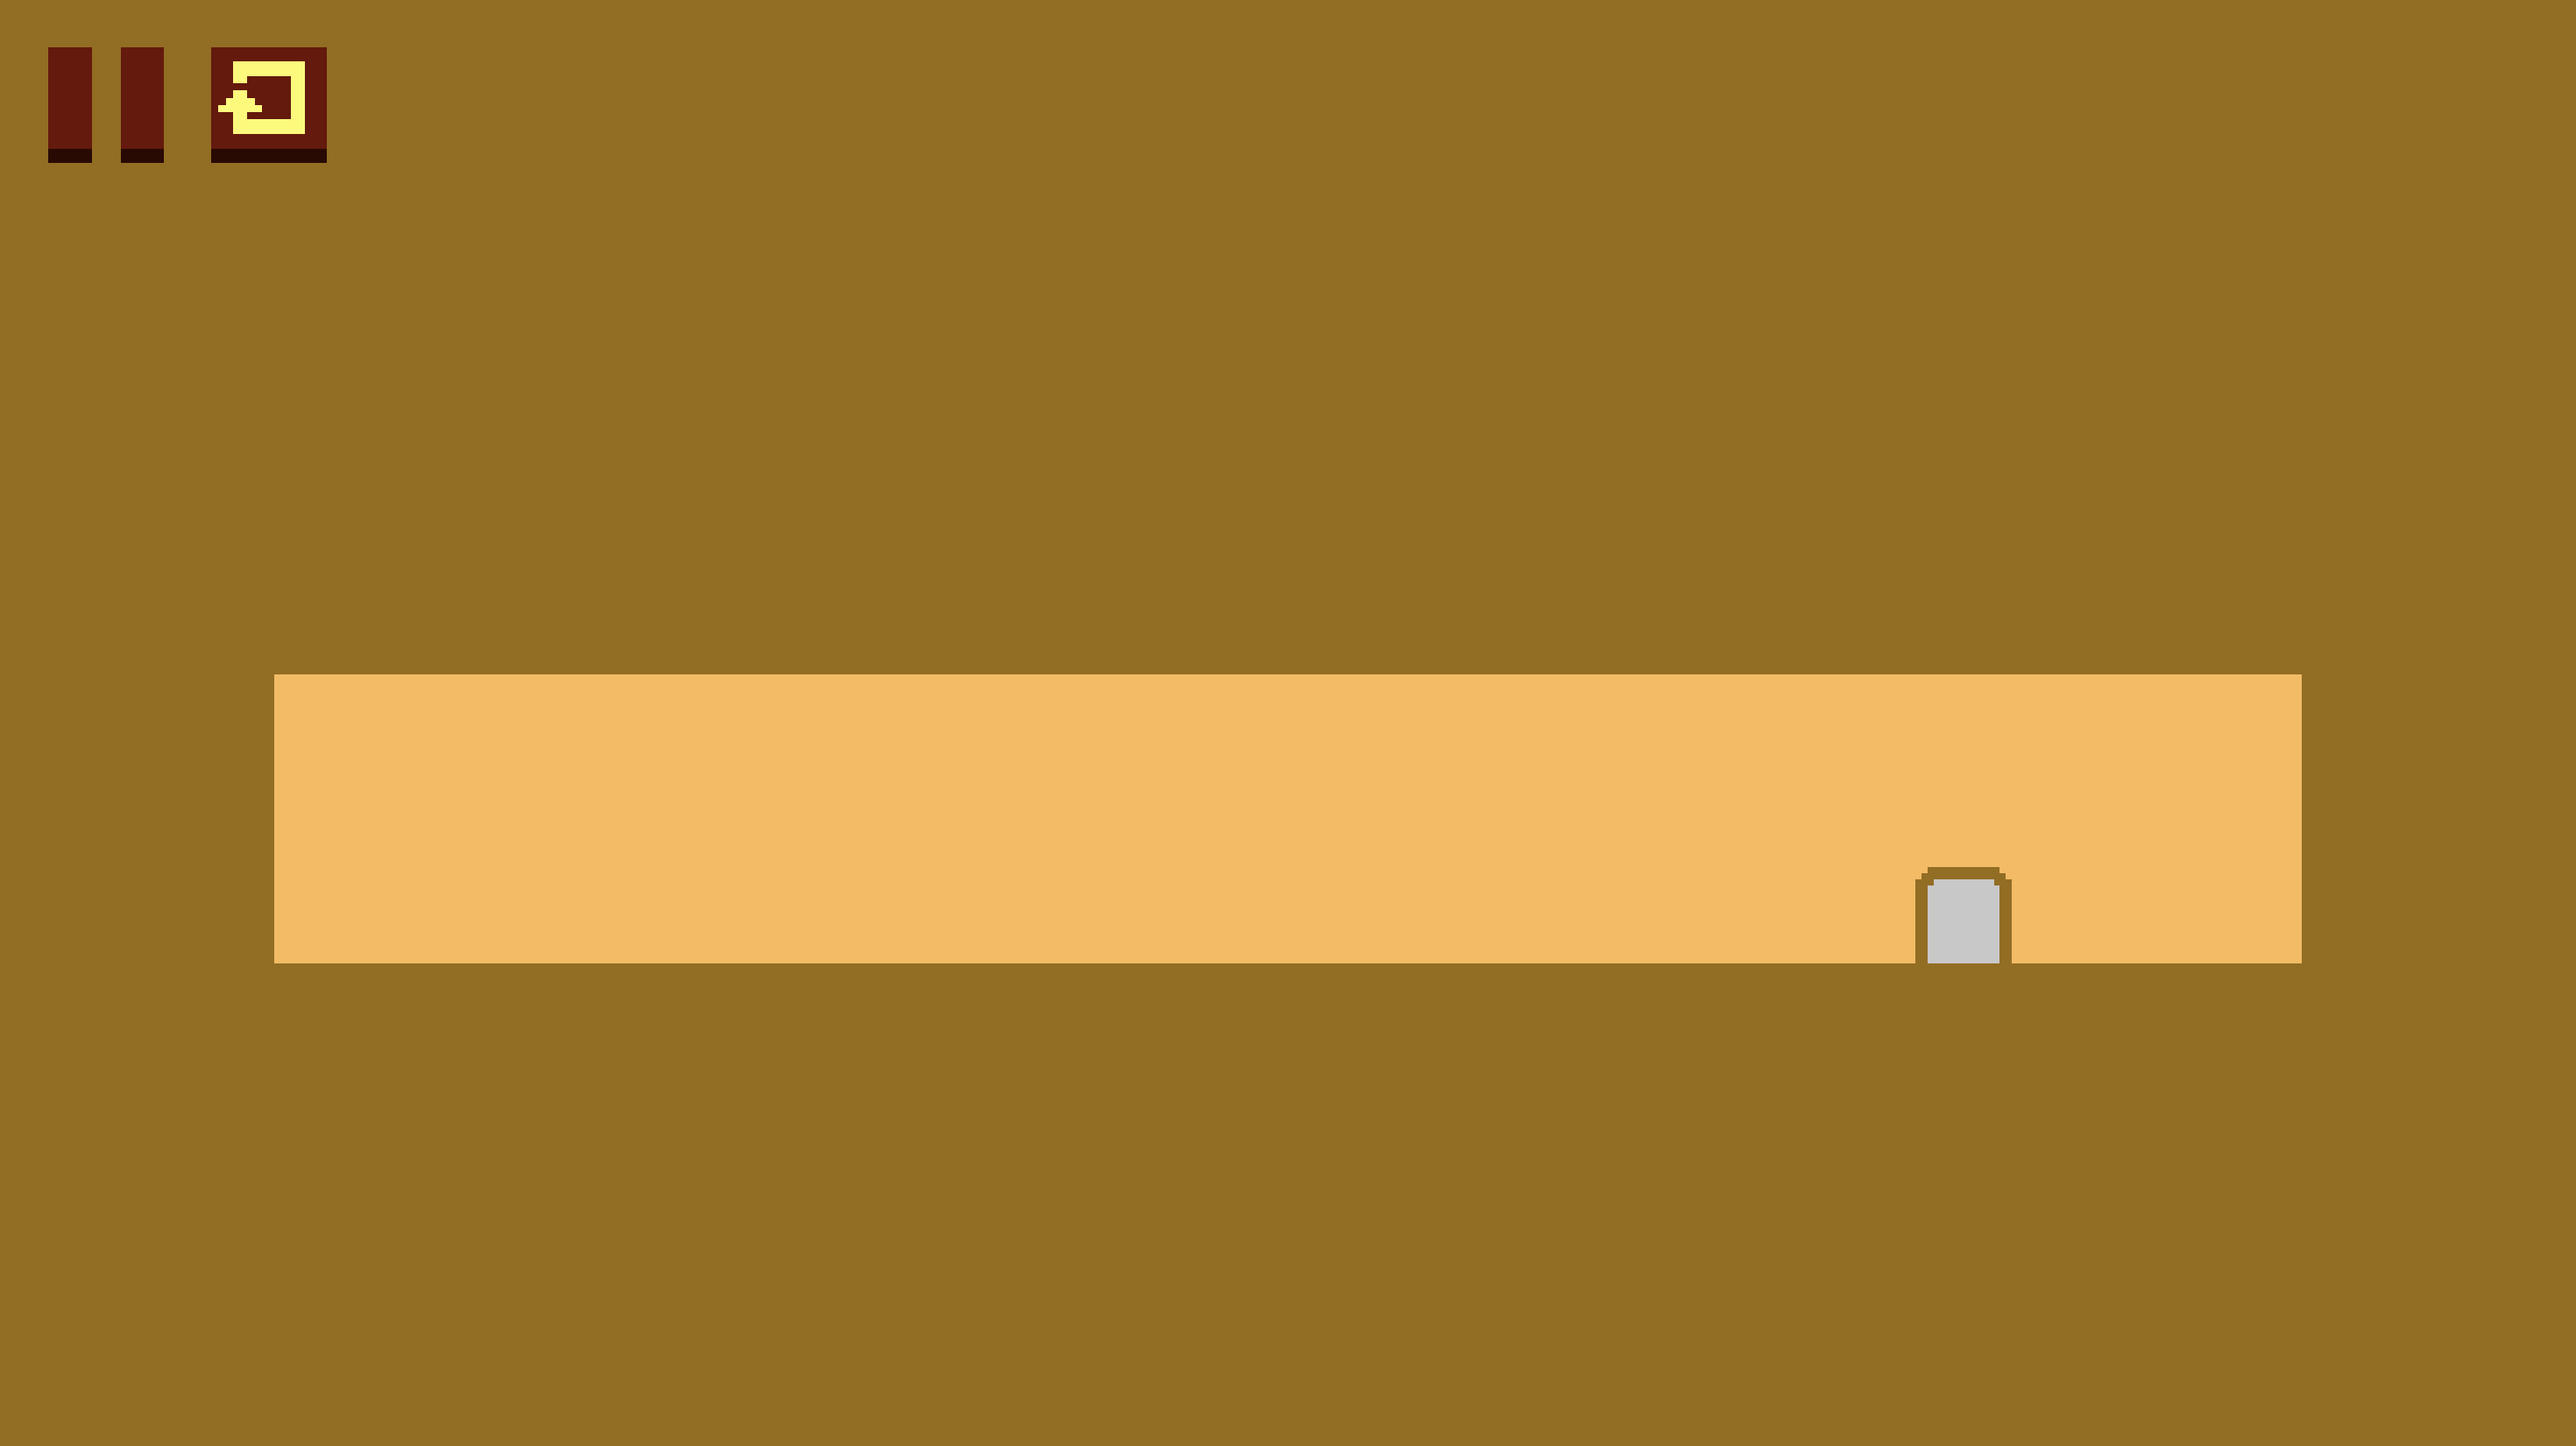
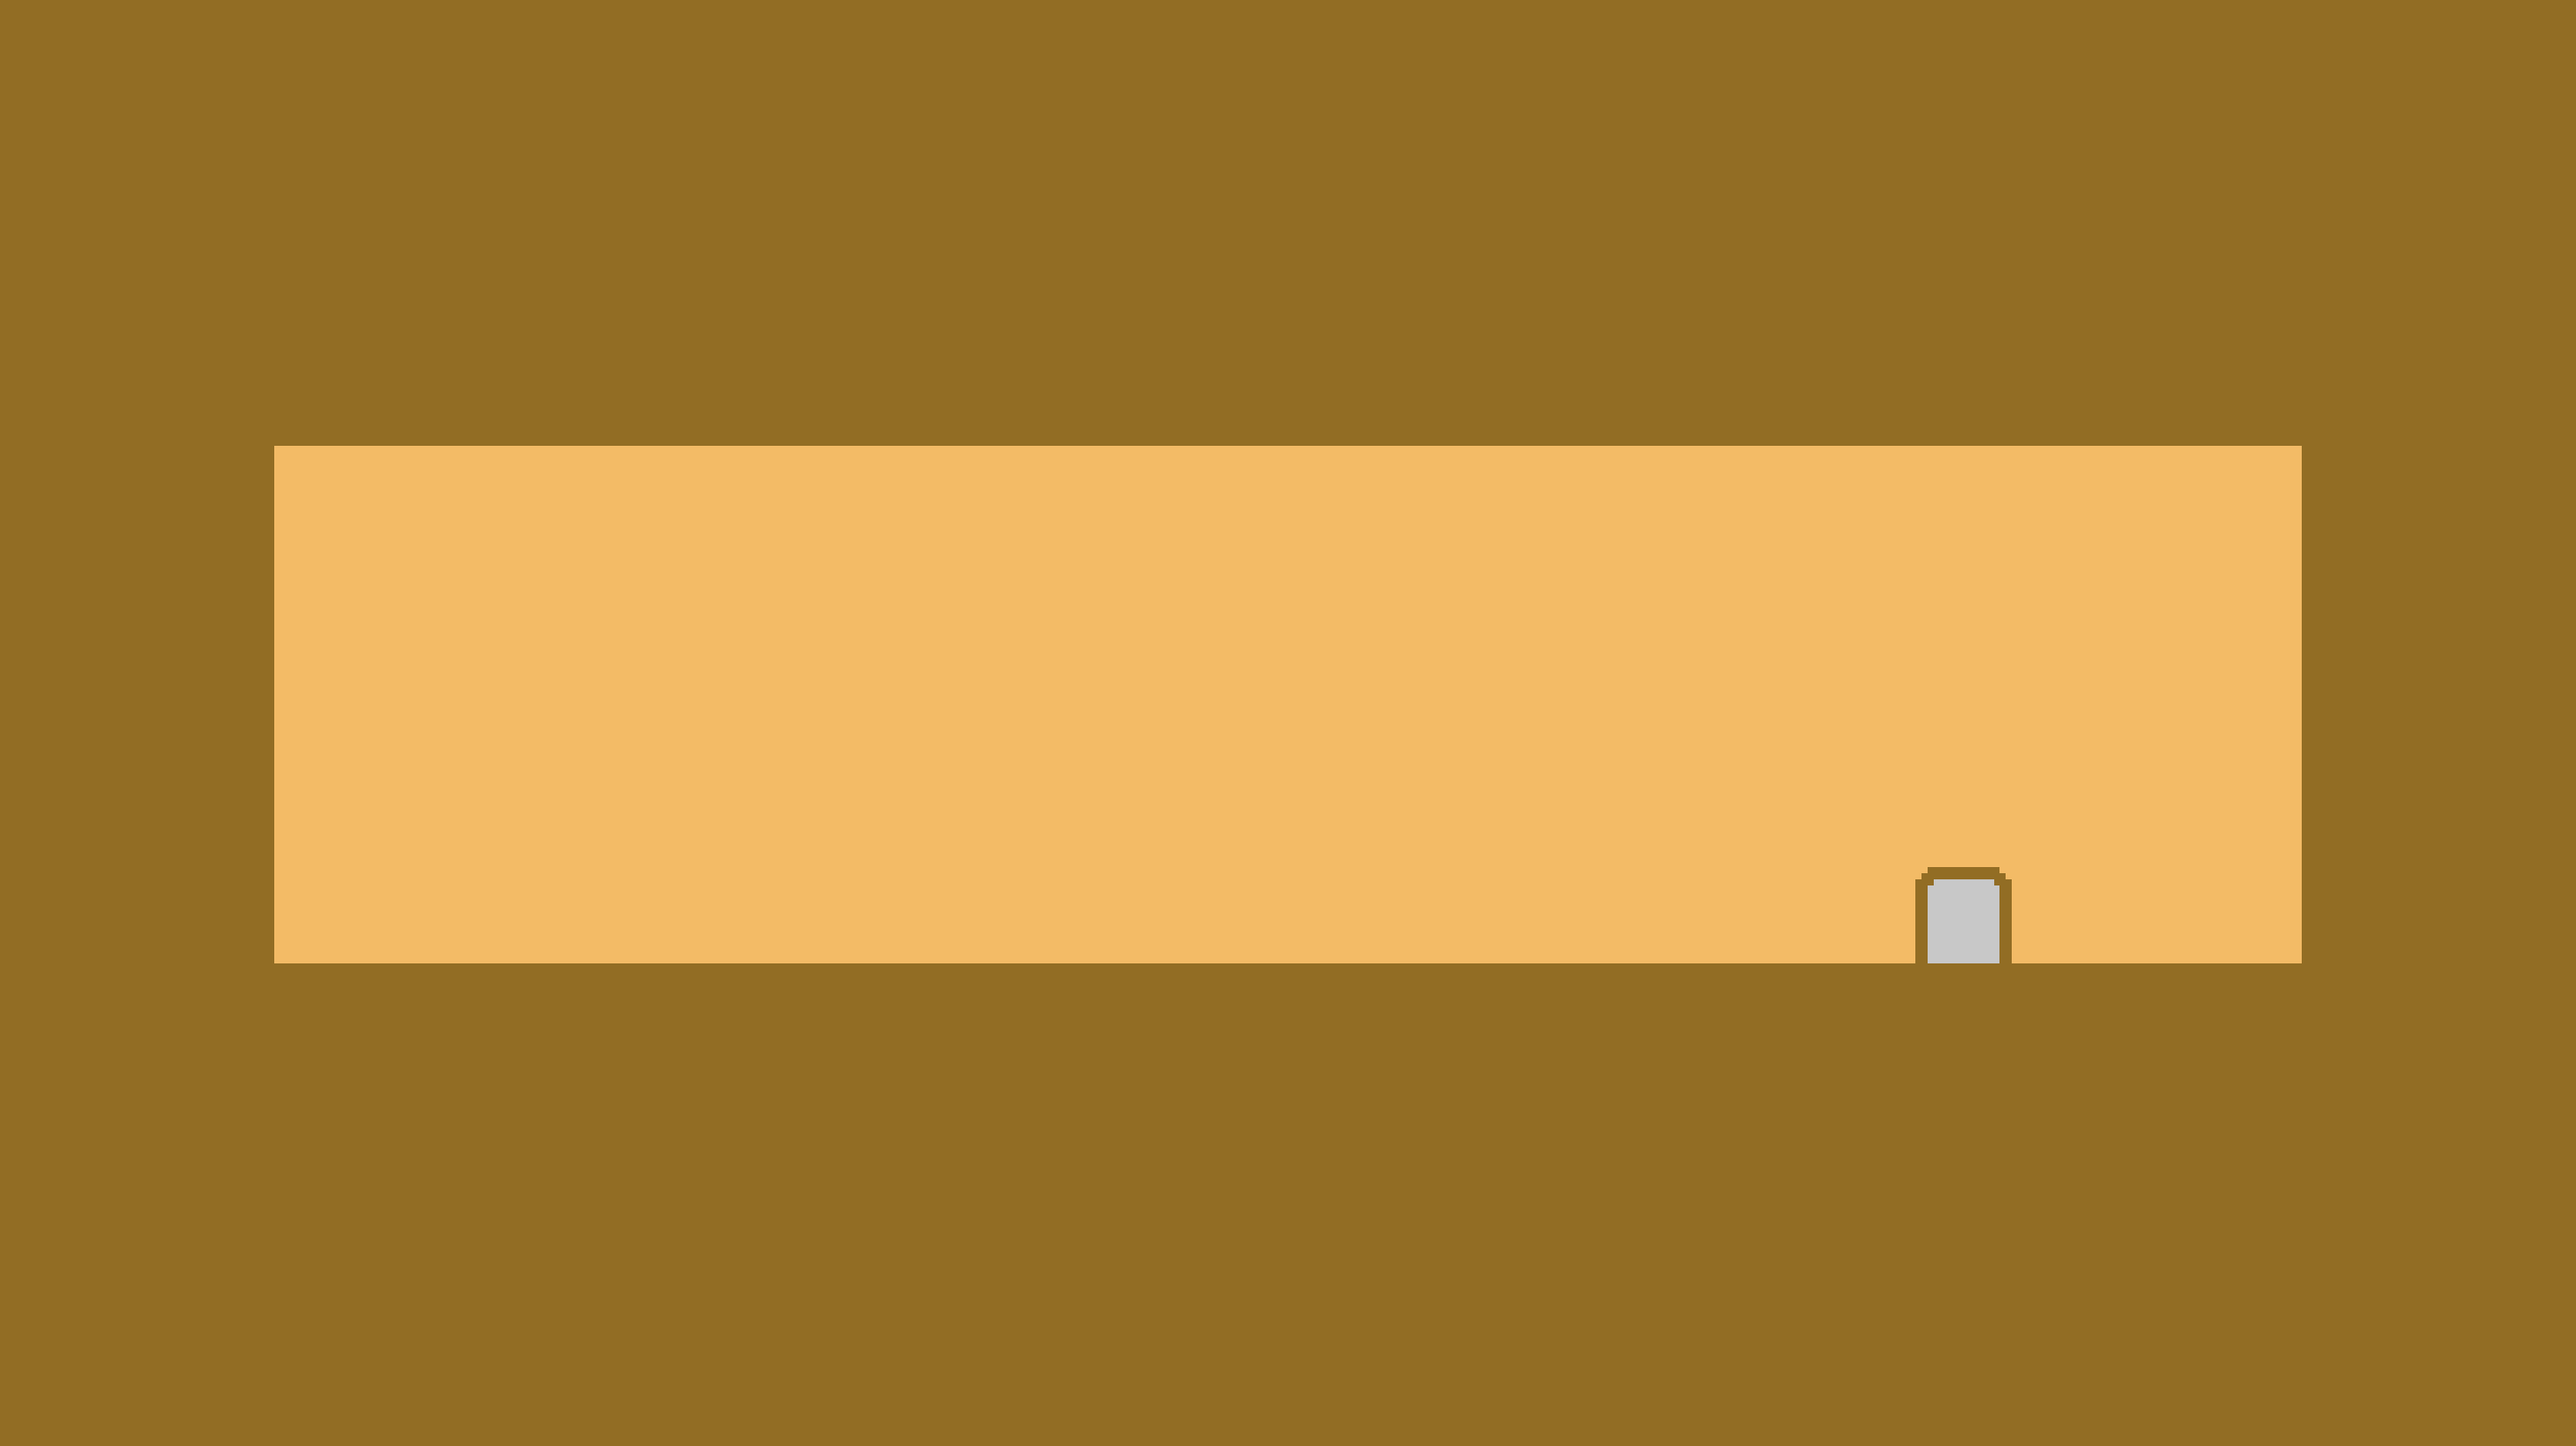
Level 2 done and holes fixed I think

Changed region(s): [[0.0929, 0.3089, 0.8976, 0.4634], [0.0, 0.0309, 0.1238, 0.1236]]

diff --git a/Guy.java b/Guy.java
@@ -20,6 +20,7 @@ public class Guy {
     private boolean facingLeft;
     private int lives;
     private int holenum;
+    private boolean died;
 
     private Rectangle hitbox;
 
@@ -142,7 +143,7 @@ public class Guy {
         }
 
         for(Hole hole : holes){
-            if (dx != 0 && (clear((int)(x + dx * WALK_SPEED), (int)y) || hole.fell(this))) {
+            if (dx != 0 && (clear((int)(x + dx * WALK_SPEED), (int)y) && !hole.fell(this))) {
                 x += dx * WALK_SPEED;
                 facingLeft = (dx < 0);
                 break;
@@ -169,7 +170,7 @@ public class Guy {
 
         boolean goon = false;
         for(Hole hole : holes){
-            if(!clear((int)x, (int)(y + SIZE)) && !hole.fell(this)){
+            if((!clear((int)(x), (int)(y + SIZE)) && !hole.fell(this))){
                 goon = true;
             }
             else{
@@ -208,6 +209,10 @@ public class Guy {
 
         if(y > 750 - SIZE){
             respawn();
+            for(Hole hole : holes){
+                System.out.println("doing");
+                hole.reset();
+            }
         }
 
         hitbox = new Rectangle((int)x, (int)y, SIZE, SIZE);
@@ -260,6 +265,10 @@ public class Guy {
 
     public double getY() {
         return y;
+    }
+
+    public Rectangle getHitbox(){
+        return hitbox;
     }
 
     public double getVelY() {

diff --git a/Level2.java b/Level2.java
@@ -3,8 +3,9 @@ import javax.swing.ImageIcon;
 
 class Level2 implements Devil.Level {
     private boolean finished = false;
-    private Hole [] holes = {new Hole(600, 400, 0, 100, 10), new Hole(800, 400, 0, 100, 10)};
+    private Hole [] holes = {new Hole(600, 400, 0, 100, 20), new Hole(800, 400, 0, 100, 20)};
     private Image backImage1 = new ImageIcon("map/map2.png").getImage();
+    private final int doorX = 1120;
 
     @Override
     public void reset() {
@@ -14,12 +15,15 @@ class Level2 implements Devil.Level {
     @Override
     public void update(Guy guy) {
         finished = false;
-        guy.updateHole(guy.returnDx(), guy.returnJump(), holes);
-        if(guy.getX() > 400){
+        guy.updateHole(guy.returnDx(), guy.returnJump(), holes); 
+        if(guy.getX() > 525){
             holes[0].sink();
         }
         if(guy.getX() > 700){
             holes[1].sink();
+        }
+        if(guy.getX() > doorX){
+            finished = true;
         }
     }
 

diff --git a/Hole.java b/Hole.java
@@ -7,8 +7,6 @@ public class Hole {
     private int l;
     private int w;
     private int speed;
-    private int dir;
-    private boolean sinking = false;
     private Rectangle hitbox;
 
     private static final Color holer = new Color(243, 187, 102);
@@ -27,10 +25,15 @@ public class Hole {
     }
 
     public void sink(){
-        if(hitbox.getX() + hitbox.getHeight() <= 1000){
+        if(hitbox.getY() + hitbox.getHeight() <= 1000){
             l += speed;
             hitbox = new Rectangle(x, y, w, l);
         }
+    }
+
+    public void reset(){
+        l = 0;
+        hitbox = new Rectangle(x, y, w, l);
     }
 
     public boolean fell(Guy guy){

diff --git a/GamePanel.java b/GamePanel.java
@@ -10,8 +10,8 @@ class GamePanel extends JPanel implements KeyListener, ActionListener {
     private boolean[] keys = new boolean[2000];
     private Timer timer;
     private int currentLevel = 0;
-    private Devil.Level[] levels = {new Level1(), new Level2()};
-    private Point[] spawns = {new Point(300, 416), new Point(300, 465)};
+    private Devil.Level[] levels = {new Level1(), new Level2(), new Level3()};
+    private Point[] spawns = {new Point(300, 416), new Point(300, 465), new Point(0, 0)};
     private boolean paused = false;
     private int dx = 0;
     private boolean jump;

diff --git a/Level3.java b/Level3.java
@@ -1,0 +1,25 @@
+import java.awt.*;
+import javax.swing.ImageIcon;
+
+class Level3 implements Devil.Level{
+    private boolean finished = false;
+
+    @Override
+    public void reset() {
+        finished = false;
+    }
+
+    @Override
+    public void update(Guy guy) {
+        finished = false;
+    }
+
+    @Override
+    public void draw(Graphics g, int panelWidth, int panelHeight) {
+    }
+
+    @Override
+    public boolean isFinished() {
+        return finished;
+    }
+}
